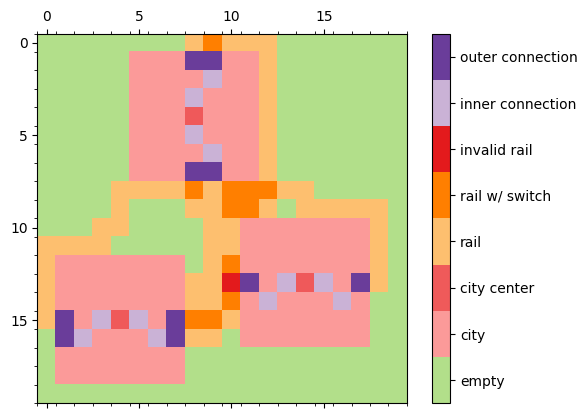
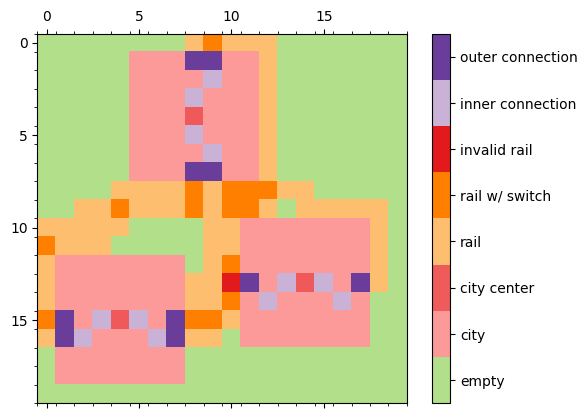
dosc(generator): Add captions to figures

Changed region(s): [[0.0613, 0.4665, 0.368, 0.622], [0.0613, 0.7153, 0.092, 0.8397]]

diff --git a/environment/generators/rail_generator.md b/environment/generators/rail_generator.md
@@ -20,7 +20,7 @@ From a graph theoretical perspective we have tightly connected node clusters (ci
 Parameters
 -------------------------
 
-The following parameters are relevant for the basic functionality of the generation of the random networks  
+The following parameters are most-relevant for the basic functionality of the generation of the random networks  
 
 - Number of cities $n_\text{city}$ (parameter: `max_num_cities`). 
 
@@ -30,27 +30,59 @@ The following parameters are relevant for the basic functionality of the generat
 
 The size of cities is given by their radius $r_\text{city} = n_\text{inner} + 2$, chosen such that there is sufficient space for tracks and connection points. This results in square cities of size  $(2~r_\text{city}+1) \times (2~r_\text{city}+1)$. 
 
-For the sake of this documentation we consider a generation with $n_\text{city}=3$, $n_\text{inner}=1$, $n_\text{inter}=2$. The cities will thus have the radius $r_\text{city} = 3$.
+For the sake of this documentation we consider a generation on a grid of size $20 \times 20$ with $n_\text{city}=3$, $n_\text{inner}=1$, $n_\text{inter}=2$. The cities will thus have the radius $r_\text{city} = 3$ and a total size of $7 \times 7$. 
+
+We note that for the sake of internal calculations north and west are considered to be in positive direction. Meaning maps displaying the cells from $(0,0)$ at the top left are orientied such that south points up, north points down, west points right, and east points left.  
 
 City Placement
 -------------------------
 
-Cities are placed randomly (or evenly) on the grid of given height and width. Coordinates with $r_\text{city}+1$ distance to the borders or $2~(r_\text{city}+1)$ to other city centers are excluded, such that cities do not overlap and have sufficient distance between each other. Generation stops when no cities are able to be placed anymore or $n_\text{city}$ is reached. 
+Cities are placed randomly (or evenly) on the grid of given height and width. Coordinates with $r_\text{city}+1$ distance to the borders or $2~(r_\text{city}+1)$ to other city centers are excluded, such that cities do not overlap and have sufficient distance between each other and the borders. Generation stops when no cities are able to be placed anymore or $n_\text{city}$ is reached. 
 
-<img src="figs/city_gen/city_gen_empty.png" alt="empty" width="20%"/>
-<img src="figs/city_gen/city_gen_A.png" alt="gen A" width="20%"/>
-<img src="figs/city_gen/city_gen_B.png" alt="gen B" width="20%"/>
-<img src="figs/city_gen/city_gen_C.png" alt="gen C" width="20%"/>
+In our example this means that after 3 placed cities there is no valid place anymore to place another city. Hence even if we planned more cities the generator would not be able to place them. Infact, with a different random placement of the first cities generation might break down even earlier. 
+
+See below the steps of generating three cities:
+
+<figure>
+<img src="figs/city_gen/city_gen_empty.png" alt="empty" width="35%"/>
+<figcaption>
+    Randomly choosen city centers need to be far enougjh away from the border. 
+</figcaption>
+</figure>
+<figure>
+<img src="figs/city_gen/city_gen_A.png" alt="gen A" width="32%"/>
+<img src="figs/city_gen/city_gen_B.png" alt="gen B" width="32%"/>
+<img src="figs/city_gen/city_gen_C.png" alt="gen C" width="32%"/>
+<figcaption>
+    Steps of the generation of three Cities A, B and C. Only green cells remain valid city center choices. 
+</figcaption>
+</figure>
 
 
 Inner and Outer Connection Points
 -------------------------
 
-Inner and outer connection points are added at the borders of the cities on two opposing cardinal directions according to the orientation of the city, which is defined by the direction of its nearest neighbor (by manhattan distance). The number of pairs of inner tracks is randomly chosen between 1 and $n_\text{inner}$ and defines the number of inner connection points per cardinal direction which is 2 times this number (for $n_\text{inner}=1$ it is always 2). The number of outer connections per cardinal direction is randomly chosen between 1 and $n_\text{inter}$ (or the number of inner connection points if thats lower). The inner connection points are offset such that parallel tracks have their inner connection points not in parallel.  
+Inner and outer connection points are added at the borders of the cities on two opposing cardinal directions according to the orientation of the city, which is defined by the direction of its nearest neighbor (by manhattan distance). 
 
-<img src="figs/connections/city_neigbors.png" alt="neighbors" width="20%"/>
-<img src="figs/connections/connection_points_A.png" alt="neighbors" width="20%"/>
-<img src="figs/connections/connection_points_all.png" alt="neighbors" width="20%"/>
+<figure>
+<img src="figs/connections/city_neigbors.png" alt="neighbors" width="40%"/>
+<figcaption>
+    City A is checking its manhattan distance to B and C and identifying C as its closest neighor.
+</figcaption>
+</figure>
+
+
+The number of pairs of inner tracks is randomly chosen between 1 and $n_\text{inner}$ and defines the number of inner connection points per cardinal direction which is 2 times this number (for $n_\text{inner}=1$ it is always 2). The number of outer connections per cardinal direction is randomly chosen between 1 and $n_\text{inter}$ (or the number of inner connection points if thats lower). The inner connection points are offset such that parallel tracks have their inner connection points not in parallel.  
+
+See below how this plays out for our example:
+
+<figure>
+<img src="figs/connections/connection_points_A.png" alt="neighbors" width="45%"/>
+<img src="figs/connections/connection_points_all.png" alt="neighbors" width="45%"/>
+<figcaption>
+    City A orients itself towards its nearest neighbor City C and generates inner and outher connection points along the axis of that direction. The other cities do the same. The number of outer (and for larger cities also inner) connection points can vary between cities. 
+</figcaption>
+</figure>
 
 
 Pathfinding between Cities 
@@ -58,23 +90,72 @@ Pathfinding between Cities
 
 For each city for each cardinal direction, the nearest city in that direction is found. If no city exists the nearest one 90 degrees counterclockwise, then 90 degrees clockwise is chosen. In each city for each each outer connection point the outer connection point with the closest (manhattan) distance of the in this way found other city is identified. These two outer connection points of different cities are then connected via a rail path. This path is found using an A* path-finding algorithm with a manhattan distance heuristic only allowing cells which are not part of cities and with a penalty on choosing cells which already contain rails (giving them $+1$ distance cost in the heuristic). This process is repeated for each city and each outer connection point. As the rails placed in this way may overwrite existing rail paths, resulting in invalid transitions, some rail cells will need to be fixed later adding switches to allow for all necessary transitions. 
 
-<img src="figs/paths/path_A_B.png" alt="" width="20%"/>
-<img src="figs/paths/path_A_B_2.png" alt="" width="20%"/>
-<img src="figs/paths/path_B_A.png" alt="" width="20%"/>
-<img src="figs/paths/path_all.png" alt="" width="20%"/>
+See below how this plays out for our example:
+
+<figure>
+<img src="figs/paths/path_A_B.png" alt="" width="60%"/>
+<figcaption>
+    As the first path the right (west) outer connection point of City A connects to the closest city in that cardinal direction. As there is no more city further right (west), it looks counterclockwise and chooses City B. The closest outer connection point of City B is the lower (north) right one, which is why the pathfinding algorithm finds a closed path between these two outer connection points and places railes/transitions there. 
+</figcaption>
+</figure>
+<figure>
+<img src="figs/paths/path_A_B_2.png" alt="" width="60%"/>
+<figcaption>
+    The second path start at the left (east) outer connection point of City A and connects to City B as this is the closest city in that cardinal direction. 
+</figcaption>
+</figure>
+<figure>
+<img src="figs/paths/path_B_A.png" alt="" width="60%"/>
+<figcaption>
+    The third path starts at the upper (south) left outer connection point of City B. It finds to connect to the left (east) outer connection point of City A. The path requires the crossover over existing rails, which is discouraged by the pathfinding algorithm but might be necessary. The new transistions are simply added to the existing transitions of the cell with might, but not necessarily does, result in a valid transition / switch. 
+</figcaption>
+</figure>
+
+<figure>
+<img src="figs/paths/path_all.png" alt="" width="60%"/>
+<figcaption>
+    The pathfinding is repeated for every outer connection point of every city. After all paths are drawn some invalid transitions exist, which will need do be fixed later.
+</figcaption>
+</figure>
 
 Inner Cities & Train Stations 
 -------------------------
 
-In each cities the inner connection points are connected by straight rail paths. Train stations are places in the middle of these paths and parallel stations/tracks per city labeled starting from 0. Parallel tracks are connected with each other and inner connections points are connected to outer connection points in straight lines (where they both exist). 
+In each cities the inner connection points are connected by straight rail paths. Train stations are places in the middle of these paths and parallel stations/tracks per city labeled starting from 0. Parallel tracks are connected with each other and inner connections points are connected to outer connection points in straight lines (where they both exist). The way these connections are build might result in invalid transitions which are then fixed later. 
 
-<img src="figs/inner/path_inner_A.png" alt="" width="20%"/>
-<img src="figs/inner/path_inner_all.png" alt="" width="20%"/>
-<img src="figs/inner/stations.png" alt="" width="20%"/>
+See below how this plays out for our example:
+
+<figure>
+<!---<img src="figs/inner/path_inner_A.png" alt="" width="45%"/>--->
+<img src="figs/inner/path_inner_all.png" alt="" width="60%"/>
+<figcaption>
+  The inner rails connect inner connection points in parallel as well as adding additional transitions between the parallel tracks, which do result in invalid transitions, but lay the groundwork for the fixing aligorithm to generate functioning inner cities, with connected parallel tracks. 
+</figcaption>
+</figure>
+
+<figure>
+<img src="figs/inner/stations.png" alt="" width="60%"/>
+<figcaption>
+    Train stations are placed in the middle of the parallel tracks. 
+</figcaption>
+</figure>
 
 Fixing Transitions 
 -------------------------
 All cells which are in cities and part of the connections between cities are checked, if their transitions are valid. Invalid transitions are fixed in the process creating switches. Resulting crossings might be level-free. 
 
-<img src="figs/fixed_paths.png" alt="" width="20%"/>
-<img src="figs/env.png" alt="" width="15%"/>
+See below how this plays out for our example:
+
+<figure>
+<img src="figs/fixed_paths.png" alt="" width="60%"/>
+<figcaption>
+    After checking an fixing all cells of cities and paths all transitions are valid. 
+</figcaption>
+</figure>
+
+<figure>
+<img src="figs/env.png" alt="" width="60%"/>
+<figcaption>
+    The resulting enviroment can now be rendered to look like this. 
+</figcaption>
+</figure>
